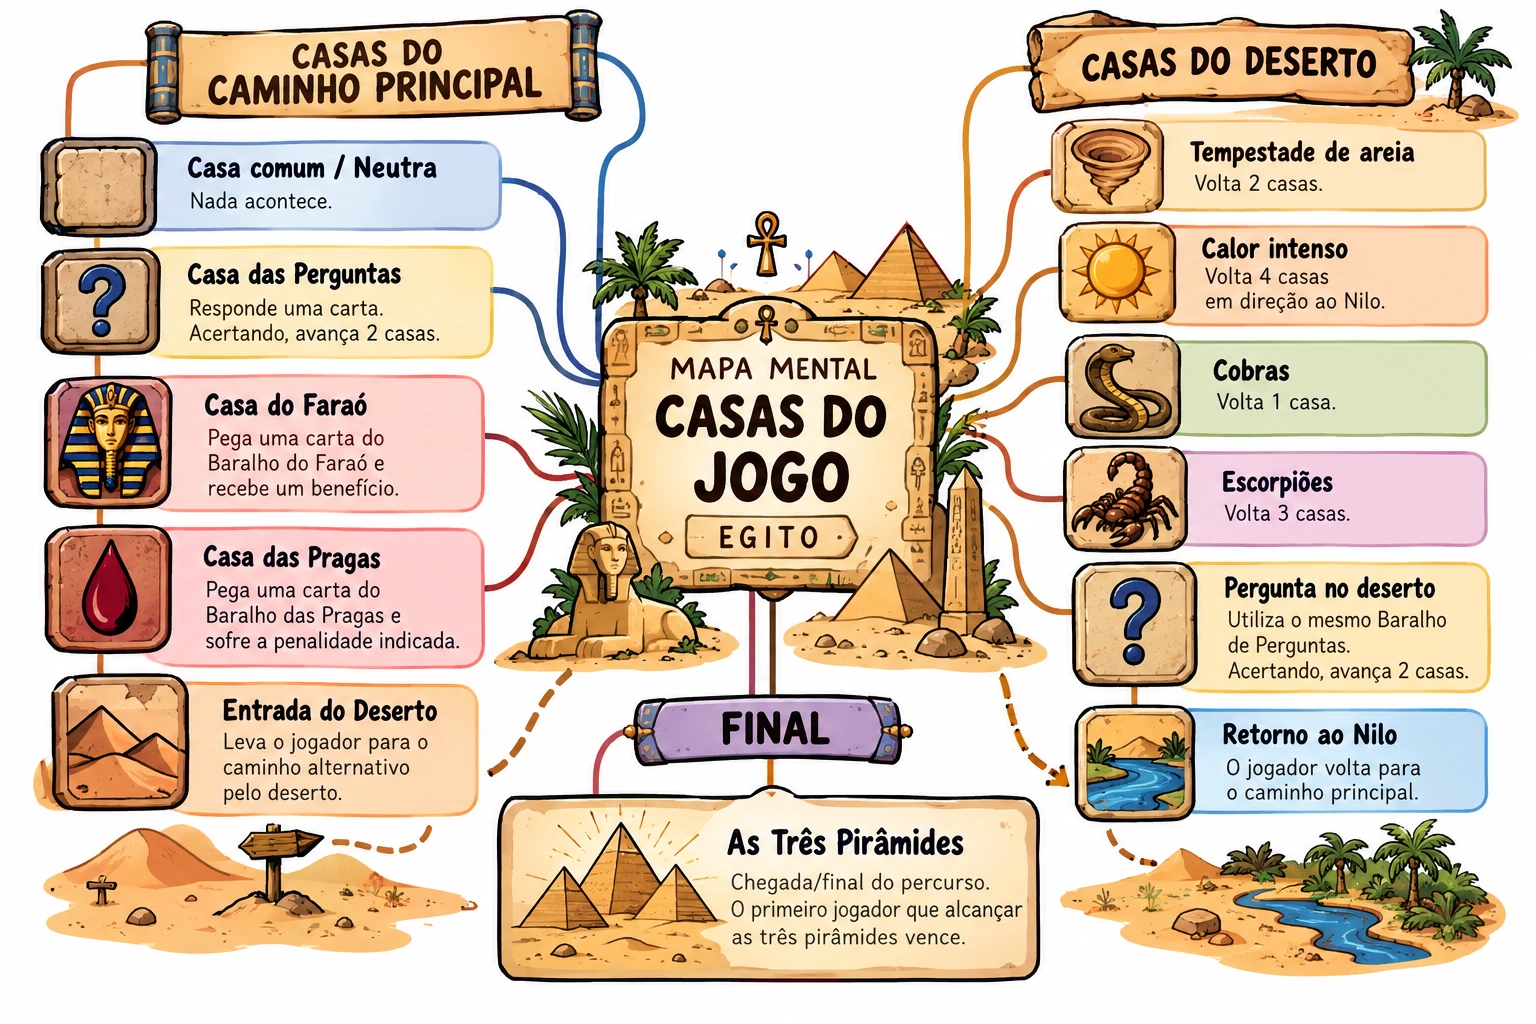
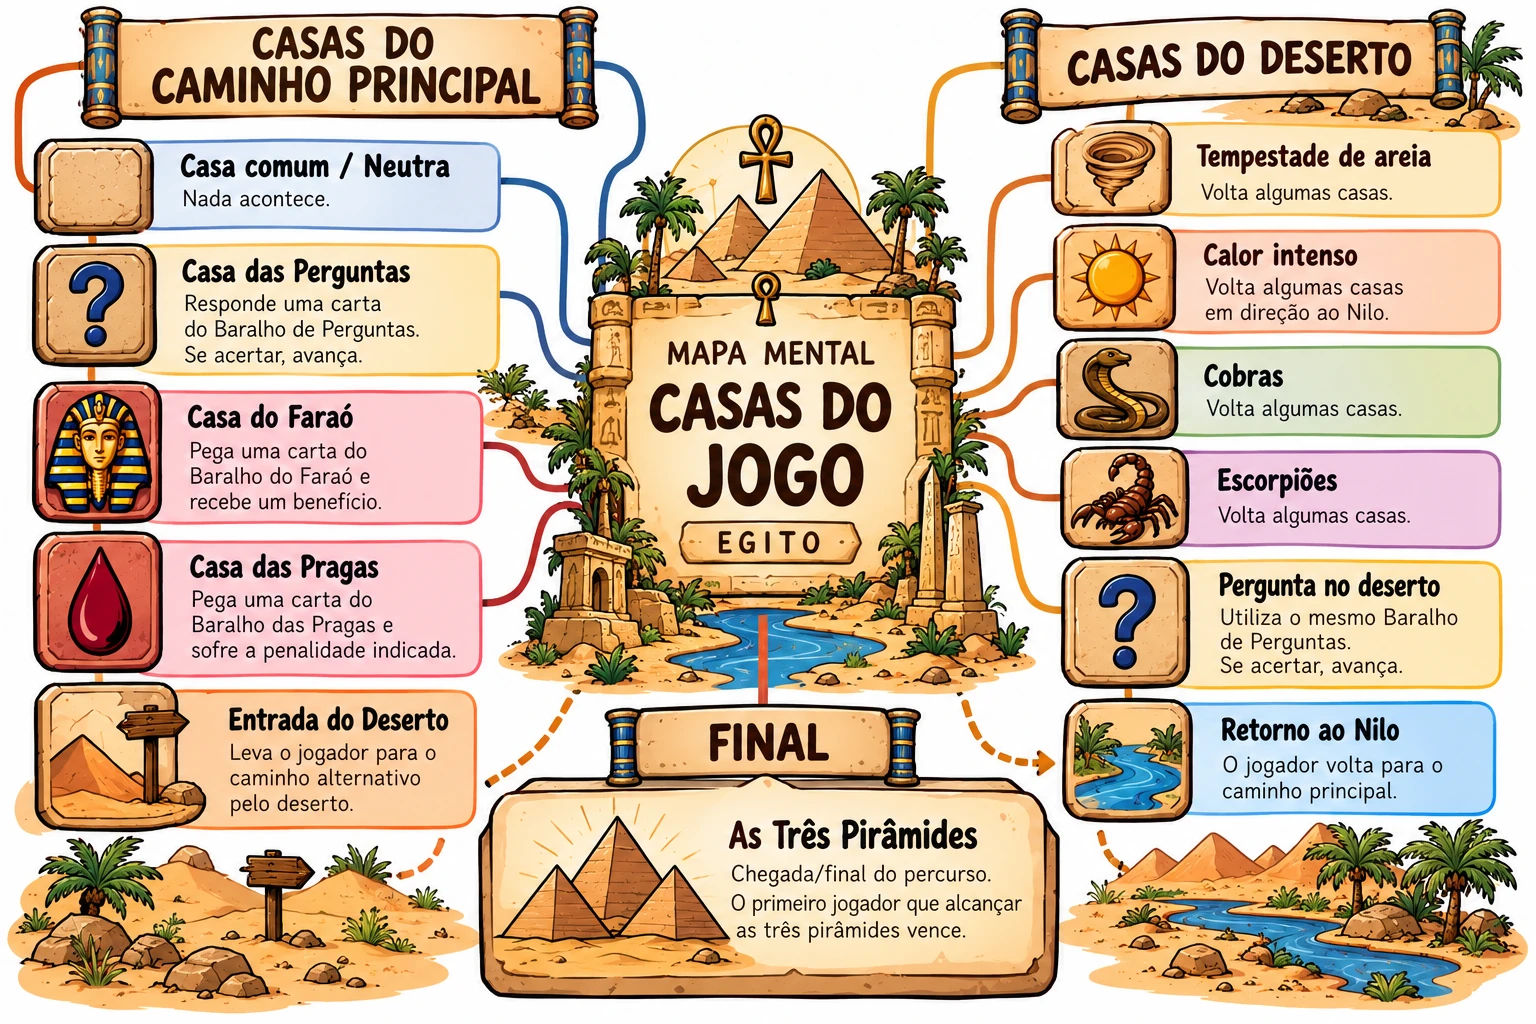
MODIFICAÇÃO - substitui mapa mental das orientações pela nova imagem enviada

diff --git a/index.html b/index.html
@@ -23,5 +23,5 @@
 <footer>𓂀 &nbsp; TRAVESSIA DO NILO &nbsp; 𓂀<br><br>Jogo criado por Eron Lovato.<br>Site produzido por Mérilyn Millena Moleta.</footer>
 </main>
 <div id="modal-carta" class="modal oculto" role="dialog" aria-modal="true" aria-labelledby="titulo-carta"><div class="sombra-modal" data-fechar></div><div class="modal-conteudo"><button class="fechar" aria-label="Fechar carta" data-fechar>×</button><p id="titulo-carta" class="sobretitulo">SEU DESTINO</p><div class="carta-3d" id="carta-3d" tabindex="0" role="button" aria-label="Virar carta"><div class="carta-face carta-costas"><img id="carta-verso" alt="Verso da carta"></div><div class="carta-face carta-frente"><img id="carta-frente" alt="Carta revelada"><div id="mascara-resposta" aria-hidden="true"></div></div></div><button id="verificar-resposta" class="botao oculto" type="button" aria-expanded="false" aria-controls="mascara-resposta">Verificar resposta</button><p id="instrucoes-carta" class="instrucoes-carta">Toque para ver o verso</p></div></div>
-<div id="modal-ajuda" class="modal oculto" role="dialog" aria-modal="true" aria-labelledby="titulo-ajuda"><div class="sombra-modal" data-fechar-ajuda></div><div class="ajuda-conteudo"><button class="fechar" aria-label="Fechar orientações" data-fechar-ajuda>×</button><p class="sobretitulo">GUIA DA JORNADA</p><h2 id="titulo-ajuda">Como jogar</h2><p>Use o tabuleiro físico para acompanhar os peões. Quando um jogador parar em uma casa de pergunta, faraó ou praga, retire uma carta do baralho correspondente. Leia a frente da carta e siga as instruções. Para jogar com dado físico, selecione essa opção no menu.</p><p>O primeiro jogador que alcançar as Três Pirâmides vence a travessia.</p><figure class="mapa-orientacoes"><img src="assets/imagens/interface/mapa-casas-jogo.webp" alt="Mapa mental das casas do jogo: caminho principal, deserto e chegada às Três Pirâmides." loading="lazy"></figure><button class="botao" data-fechar-ajuda>Entendi</button></div></div>
+<div id="modal-ajuda" class="modal oculto" role="dialog" aria-modal="true" aria-labelledby="titulo-ajuda"><div class="sombra-modal" data-fechar-ajuda></div><div class="ajuda-conteudo"><button class="fechar" aria-label="Fechar orientações" data-fechar-ajuda>×</button><p class="sobretitulo">GUIA DA JORNADA</p><h2 id="titulo-ajuda">Como jogar</h2><p>Use o tabuleiro físico para acompanhar os peões. Quando um jogador parar em uma casa de pergunta, faraó ou praga, retire uma carta do baralho correspondente. Leia a frente da carta e siga as instruções. Para jogar com dado físico, selecione essa opção no menu.</p><p>O primeiro jogador que alcançar as Três Pirâmides vence a travessia.</p><figure class="mapa-orientacoes"><img src="assets/imagens/interface/mapa-casas-jogo.webp?v=20261012-1652" alt="Mapa mental das casas do jogo: caminho principal, deserto e chegada às Três Pirâmides." loading="lazy"></figure><button class="botao" data-fechar-ajuda>Entendi</button></div></div>
 </body></html>
